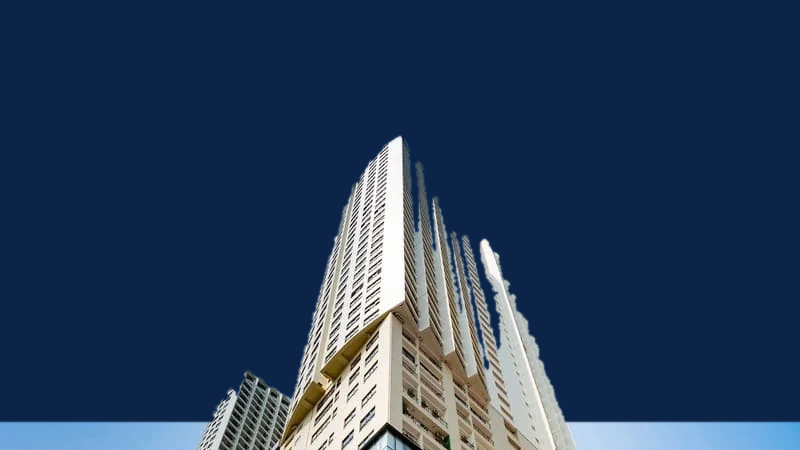
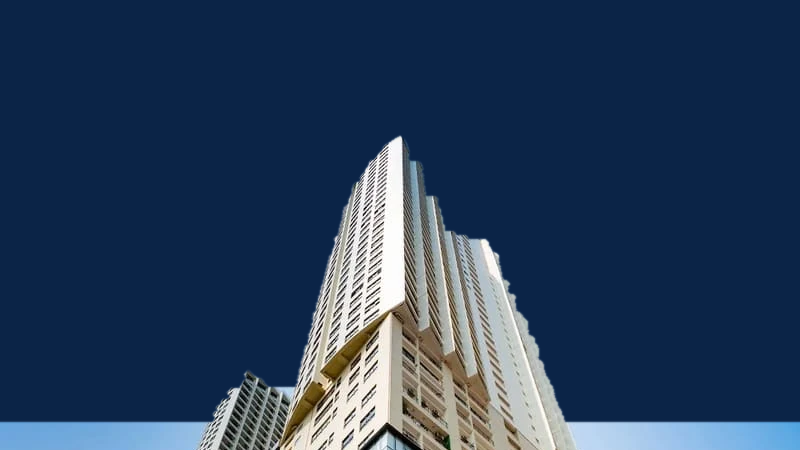
Mau 18: mat na v4 — giu tuong khuat nang giua cac go, lap khe hep, giu toa thap ben trai

Changed region(s): [[0.5, 0.3422, 0.625, 0.8089], [0.3438, 0.84, 0.375, 0.9022], [0.2812, 0.84, 0.3125, 0.8711]]

diff --git a/apps/frontend/src/components/banner11/mauBanner.ts b/apps/frontend/src/components/banner11/mauBanner.ts
@@ -104,7 +104,7 @@ export const MAU_BANNER: MauBanner[] = [
   {
     "lop": "st-c18",
     "ten": "Chủ thể vượt khung",
-    "html": "<div class=\"banner st-c18\" data-cycle=\"8000\">\n    <div class=\"layer c18-bg\"></div><div class=\"sp-grid\"></div>\n    <canvas class=\"layer fireflies\" data-x0=\".02\" data-x1=\".5\" aria-hidden=\"true\"></canvas>\n    <svg data-vbm=\"1150 60 560 560\" class=\"fill-svg\" viewBox=\"0 0 1920 620\" preserveAspectRatio=\"xMaxYMid slice\" role=\"img\" aria-label=\"Toà nhà cao tầng vươn ra khỏi khung ảnh\">\n      <defs>\n        <clipPath id=\"c18Frame\"><rect x=\"1230\" y=\"260\" width=\"443\" height=\"325\" rx=\"34\"/></clipPath><clipPath id=\"c18Tren\"><rect x=\"1150\" y=\"0\" width=\"700\" height=\"261\"/></clipPath><mask id=\"c18Toa\" maskUnits=\"userSpaceOnUse\" x=\"1228\" y=\"0\" width=\"448\" height=\"280\"><image href=\"/banner11/m18-matna-v2.webp\" x=\"1228\" y=\"30.6\" width=\"448\" height=\"672\" preserveAspectRatio=\"none\"/></mask><clipPath id=\"c18Bo\"></clipPath>\n        <linearGradient id=\"c18Edge\" x1=\"0\" y1=\"0\" x2=\"1\" y2=\"1\"><stop offset=\"0\" stop-color=\"#e0f2fe\"/><stop offset=\".5\" stop-color=\"#7dd3fc\"/><stop offset=\"1\" stop-color=\"#1d4ed8\"/></linearGradient>\n        <filter id=\"c18Feather\" x=\"-20%\" y=\"-30%\" width=\"140%\" height=\"160%\"><feGaussianBlur stdDeviation=\"10\"/></filter>\n        <mask id=\"c18PatchMask\" maskUnits=\"userSpaceOnUse\" x=\"1150\" y=\"90\" width=\"440\" height=\"260\"><rect x=\"1223\" y=\"145\" width=\"280\" height=\"139\" rx=\"40\" fill=\"#fff\" filter=\"url(#c18Feather)\"/></mask>\n        \n      </defs>\n      <g class=\"b1-rings\" data-at=\"0\" data-once>\n        <rect class=\"r3\" x=\"1180\" y=\"210\" width=\"543\" height=\"425\" rx=\"70\" fill=\"#0b2447\"/>\n        <rect class=\"r2\" x=\"1197\" y=\"227\" width=\"509\" height=\"391\" rx=\"58\" fill=\"#153a6b\"/>\n        <rect class=\"r1\" x=\"1214\" y=\"244\" width=\"475\" height=\"357\" rx=\"46\" fill=\"#23579a\"/>\n      </g>\n      <g class=\"b1-frame\" data-at=\"250\" data-once>\n        <g clip-path=\"url(#c18Frame)\">\n          <image href=\"/banner11/mia-goldcoast-800.webp\" width=\"1000\" height=\"1500\" preserveAspectRatio=\"none\" transform=\"translate(1228 30.6) scale(0.448)\"/>\n          \n        </g>\n        <rect x=\"1230\" y=\"260\" width=\"443\" height=\"325\" rx=\"34\" fill=\"none\" stroke=\"url(#c18Edge)\" stroke-width=\"3\"/>\n      </g>\n      <g clip-path=\"url(#c18Tren)\"><g class=\"c18-plane\" data-at=\"1500\" mask=\"url(#c18Toa)\"><image href=\"/banner11/mia-goldcoast-800.webp\" width=\"1000\" height=\"1500\" preserveAspectRatio=\"none\" transform=\"translate(1228 30.6) scale(0.448)\"/></g></g>\n    </svg>\n    <div class=\"b-text\">\n      <span class=\"kicker fx-up\" data-at=\"200\" data-once>Đô thị mới</span>\n      <h3 class=\"b-title lines\" data-at=\"400\" data-once><span class=\"line\"><span class=\"li\" style=\"--i:0\">Vươn cao</span></span><span class=\"line\"><span class=\"li\" style=\"--i:1\">giữa lòng Cam Lâm</span></span></h3>\n      <p class=\"b-sub fx-up\" data-at=\"900\" data-once>Nhà cao tầng, hạ tầng mới đang hình thành trên vùng đất quy hoạch thành đô thị.</p>\n      <div class=\"fx-pop\" data-at=\"1300\" data-once><a class=\"cta sky\" href=\"#\">Xem khu vực <span aria-hidden=\"true\">→</span></a></div>\n    </div>\n  </div>"
+    "html": "<div class=\"banner st-c18\" data-cycle=\"8000\">\n    <div class=\"layer c18-bg\"></div><div class=\"sp-grid\"></div>\n    <canvas class=\"layer fireflies\" data-x0=\".02\" data-x1=\".5\" aria-hidden=\"true\"></canvas>\n    <svg data-vbm=\"1150 60 560 560\" class=\"fill-svg\" viewBox=\"0 0 1920 620\" preserveAspectRatio=\"xMaxYMid slice\" role=\"img\" aria-label=\"Toà nhà cao tầng vươn ra khỏi khung ảnh\">\n      <defs>\n        <clipPath id=\"c18Frame\"><rect x=\"1230\" y=\"260\" width=\"443\" height=\"325\" rx=\"34\"/></clipPath><clipPath id=\"c18Tren\"><rect x=\"1150\" y=\"0\" width=\"700\" height=\"261\"/></clipPath><mask id=\"c18Toa\" maskUnits=\"userSpaceOnUse\" x=\"1228\" y=\"0\" width=\"448\" height=\"280\"><image href=\"/banner11/m18-matna-v4.webp\" x=\"1228\" y=\"30.6\" width=\"448\" height=\"672\" preserveAspectRatio=\"none\"/></mask><clipPath id=\"c18Bo\"></clipPath>\n        <linearGradient id=\"c18Edge\" x1=\"0\" y1=\"0\" x2=\"1\" y2=\"1\"><stop offset=\"0\" stop-color=\"#e0f2fe\"/><stop offset=\".5\" stop-color=\"#7dd3fc\"/><stop offset=\"1\" stop-color=\"#1d4ed8\"/></linearGradient>\n        <filter id=\"c18Feather\" x=\"-20%\" y=\"-30%\" width=\"140%\" height=\"160%\"><feGaussianBlur stdDeviation=\"10\"/></filter>\n        <mask id=\"c18PatchMask\" maskUnits=\"userSpaceOnUse\" x=\"1150\" y=\"90\" width=\"440\" height=\"260\"><rect x=\"1223\" y=\"145\" width=\"280\" height=\"139\" rx=\"40\" fill=\"#fff\" filter=\"url(#c18Feather)\"/></mask>\n        \n      </defs>\n      <g class=\"b1-rings\" data-at=\"0\" data-once>\n        <rect class=\"r3\" x=\"1180\" y=\"210\" width=\"543\" height=\"425\" rx=\"70\" fill=\"#0b2447\"/>\n        <rect class=\"r2\" x=\"1197\" y=\"227\" width=\"509\" height=\"391\" rx=\"58\" fill=\"#153a6b\"/>\n        <rect class=\"r1\" x=\"1214\" y=\"244\" width=\"475\" height=\"357\" rx=\"46\" fill=\"#23579a\"/>\n      </g>\n      <g class=\"b1-frame\" data-at=\"250\" data-once>\n        <g clip-path=\"url(#c18Frame)\">\n          <image href=\"/banner11/mia-goldcoast-800.webp\" width=\"1000\" height=\"1500\" preserveAspectRatio=\"none\" transform=\"translate(1228 30.6) scale(0.448)\"/>\n          \n        </g>\n        <rect x=\"1230\" y=\"260\" width=\"443\" height=\"325\" rx=\"34\" fill=\"none\" stroke=\"url(#c18Edge)\" stroke-width=\"3\"/>\n      </g>\n      <g clip-path=\"url(#c18Tren)\"><g class=\"c18-plane\" data-at=\"1500\" mask=\"url(#c18Toa)\"><image href=\"/banner11/mia-goldcoast-800.webp\" width=\"1000\" height=\"1500\" preserveAspectRatio=\"none\" transform=\"translate(1228 30.6) scale(0.448)\"/></g></g>\n    </svg>\n    <div class=\"b-text\">\n      <span class=\"kicker fx-up\" data-at=\"200\" data-once>Đô thị mới</span>\n      <h3 class=\"b-title lines\" data-at=\"400\" data-once><span class=\"line\"><span class=\"li\" style=\"--i:0\">Vươn cao</span></span><span class=\"line\"><span class=\"li\" style=\"--i:1\">giữa lòng Cam Lâm</span></span></h3>\n      <p class=\"b-sub fx-up\" data-at=\"900\" data-once>Nhà cao tầng, hạ tầng mới đang hình thành trên vùng đất quy hoạch thành đô thị.</p>\n      <div class=\"fx-pop\" data-at=\"1300\" data-once><a class=\"cta sky\" href=\"#\">Xem khu vực <span aria-hidden=\"true\">→</span></a></div>\n    </div>\n  </div>"
   },
   {
     "lop": "st-b6",

diff --git a/scripts/banner11/mat-na-toa-nha-mau18.py b/scripts/banner11/mat-na-toa-nha-mau18.py
@@ -52,13 +52,29 @@ def main():
     ys, xs = np.nonzero(giua)
     y0 = ys.min()
     x0 = xs[ys == y0][0] + w // 3
-    giu = lab == lab[y0, x0]
+    # ⚠ GIỮ MỌI TOÀ NHÀ chạm xuống mép khung (cả toà thấp bên trái), không
+    #    chỉ toà có chóp. Rồi LẤP KÍN TỪNG HÀNG của từng toà: mặt tường khuất
+    #    nắng giữa các gờ trắng màu xanh xám, bị nhận nhầm là trời → khoét ra
+    #    thành khe, lộ nền xanh banner (chủ dự án: "toà nhà cao bị mất ảnh ra
+    #    nền xanh", 25/9/2026). Giữa hai gờ của một toà thì chắc chắn là tường.
+    hang = lab[HANG_KHUNG]
+    ma = {int(v) for v in np.unique(hang) if v} | {int(lab[y0, x0])}
+    giu = np.zeros_like(nha)
+    for v in ma:
+        k = lab == v
+        if k.sum() < 800:
+            continue
+        giu |= k
+    # Lấp KHE HẸP theo chiều ngang (< 25 điểm ảnh): khe giữa các gờ tường chỉ
+    # ~10 điểm ảnh, còn khoảng trời giữa toà thấp bên trái và toà chính ~45 —
+    # lấp hết cả hàng như bản trước là lấp luôn mảng trời đó (đã vấp).
+    giu = ndimage.binary_closing(giu, structure=np.ones((1, 25), bool))
     giu = ndimage.binary_fill_holes(giu)
     giu[HANG_KHUNG + 12:, :] = True      # dưới mép khung: trắng hết cho khỏi hở
     m = Image.fromarray((giu * 255).astype('uint8')).filter(ImageFilter.GaussianBlur(0.8))
     # webp KHÔNG NÉN MẤT (lossless): nén thường là mép mặt nạ lem, lộ viền trời.
     # Giữ đuôi .webp vì bản điện thoại tự đổi đường dẫn sang dt/…webp.
-    p = os.path.join(RA, 'm18-matna-v2.webp')  # ⚠ đổi tên mỗi lần dựng lại (v3, v4…): Cloudflare + trình duyệt giữ ảnh theo tên file
+    p = os.path.join(RA, 'm18-matna-v4.webp')  # ⚠ đổi tên mỗi lần dựng lại (v3, v4…): Cloudflare + trình duyệt giữ ảnh theo tên file
     m.save(p, 'WEBP', lossless=True)
     print('OK', p, m.size, 'chop toa nha o', (int(x0), int(y0)))
     # ảnh xem thử: toà nhà trên nền navy

diff --git a/scripts/banner11/tach-banner.py b/scripts/banner11/tach-banner.py
@@ -439,7 +439,7 @@ THAY_DOAN = {
      # ⚠ Mặt nạ phủ TRỌN tấm ảnh (cùng toạ độ với ảnh), do mat-na-toa-nha-mau18.py
      #    dựng. Bản cũ chỉ phủ tới y≈258 < mép khung 260 → hở dải "viền xanh".
      '<mask id="c18Toa" maskUnits="userSpaceOnUse" x="1228" y="0" width="448" height="280">'
-     '<image href="/banner11/m18-matna-v2.webp" x="1228" y="30.6" width="448" height="672" preserveAspectRatio="none"/></mask>'
+     '<image href="/banner11/m18-matna-v4.webp" x="1228" y="30.6" width="448" height="672" preserveAspectRatio="none"/></mask>'
      '<clipPath id="c18Bo">'),
     ('<rect x="1060" y="110" width="700" height="470" rx="48" fill="none"',
      '<rect x="1230" y="260" width="443" height="325" rx="34" fill="none"'),
